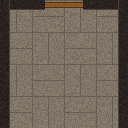
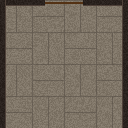
Fix boundary applied next to existing tiles; centered thin sample walls (0.4.3)

Changed region(s): [[0.0312, 0.0, 0.9688, 1.0]]

diff --git a/test/wfc.test.js b/test/wfc.test.js
@@ -54,6 +54,10 @@ function assertConsistent(result, cells, compat = sampleCompat) {
   assert.equal(result.assignments.length, cells.length);
 }
 const sampleSolve = opts => solve({ compatible: sampleMapping.compatible, ...opts });
+// One-sided wall convention used by some tests: a wall or door side may only face a floor side.
+const ONE_SIDED = { wall: ["floor"], door: ["floor"] };
+const oneSidedCompat = buildCompatibility(ONE_SIDED);
+const oneSidedSolve = opts => solve({ compatible: ONE_SIDED, ...opts });
 
 test("solve fills a rectangle with the sample collection and respects the boundary", () => {
   const polygon = [[0, 0], [1200, 0], [1200, 800], [0, 800]];
@@ -63,11 +67,20 @@ test("solve fills a rectangle with the sample collection and respects the bounda
   const result = sampleSolve({ cells, variants, boundaryTags: ["wall"], seed: "test" });
   assert.ok(result.success, "expected a solution");
   assertConsistent(result, cells);
-  const byKey = new Map(result.assignments.map(a => [`${a.cell.i},${a.cell.j}`, a.variant]));
   for (const a of result.assignments) {
     if (a.cell.i === 0) assert.deepEqual(a.variant.tags.n, ["wall"]);
     if (a.cell.j === 11) assert.deepEqual(a.variant.tags.e, ["wall"]);
-    // One-sided walls: a wall or door side always faces a floor side, never another wall.
+  }
+});
+
+test("solve with a one-sided compatibility table never puts two wall sides together", () => {
+  const cells = cellsInPolygon([[0, 0], [800, 0], [800, 500], [0, 500]], 100);
+  const variants = expandVariants(sampleTiles);
+  const result = oneSidedSolve({ cells, variants, boundaryTags: ["wall"], seed: "one-sided" });
+  assert.ok(result.success);
+  assertConsistent(result, cells, oneSidedCompat);
+  const byKey = new Map(result.assignments.map(a => [`${a.cell.i},${a.cell.j}`, a.variant]));
+  for (const a of result.assignments) {
     for (const side of SIDES) {
       const [di, dj] = DELTAS[side];
       const other = byKey.get(`${a.cell.i + di},${a.cell.j + dj}`);
@@ -107,14 +120,14 @@ test("solve reports failure when no tile fits", () => {
 test("failure diagnostics name the stage and the neighbour", () => {
   const variants = expandVariants(sampleTiles);
   // Contradictory unary constraints: must be exactly wall and compatible with wall (i.e. floor).
-  const unary = sampleSolve({ cells: [{ i: 0, j: 0 }], variants, constraints: [{ n: { require: ["wall"], compatibleWith: ["wall"] } }], seed: 1 });
+  const unary = oneSidedSolve({ cells: [{ i: 0, j: 0 }], variants, constraints: [{ n: { require: ["wall"], compatibleWith: ["wall"] } }], seed: 1 });
   assert.equal(unary.success, false);
   assert.equal(unary.failure.stage, "constraints");
-  const lines = describeCellConstraints({ n: { require: ["wall"], compatibleWith: ["wall"] } }, variants, sampleMapping.compatible);
+  const lines = describeCellConstraints({ n: { require: ["wall"], compatibleWith: ["wall"] } }, variants, ONE_SIDED);
   assert.ok(lines.some(l => l.startsWith("north must be exactly [wall]")));
   assert.ok(lines.some(l => l.startsWith("north must be compatible with [wall]")));
   // Propagation: cell 0 must draw a wall on its east, cell 1 must draw a wall on its west; one-sided walls forbid that.
-  const prop = sampleSolve({ cells: [{ i: 0, j: 0 }, { i: 0, j: 1 }], variants, constraints: [{ e: { require: ["wall"] } }, { w: { require: ["wall"] } }], seed: 1 });
+  const prop = oneSidedSolve({ cells: [{ i: 0, j: 0 }, { i: 0, j: 1 }], variants, constraints: [{ e: { require: ["wall"] } }, { w: { require: ["wall"] } }], seed: 1 });
   assert.equal(prop.success, false);
   assert.equal(prop.failure.stage, "propagation");
   assert.ok(prop.failure.from);
@@ -140,9 +153,9 @@ test("solve honours per-side require, compatibleWith and forbid constraints", ()
   }));
   constraints[1].e = { require: ["door"] };
   constraints[2].w = { compatibleWith: ["door"] };
-  const result = sampleSolve({ cells, variants, constraints, boundaryTags: ["wall"], seed: "doors" });
+  const result = oneSidedSolve({ cells, variants, constraints, boundaryTags: ["wall"], seed: "doors" });
   assert.ok(result.success);
-  assertConsistent(result, cells);
+  assertConsistent(result, cells, oneSidedCompat);
   assert.deepEqual(result.assignments[1].variant.tags.e, ["door"]);
   assert.deepEqual(result.assignments[2].variant.tags.w, ["floor"]);
   for (const a of result.assignments) {
@@ -229,12 +242,12 @@ test("compatibleWith constraint and shared tag requirement", () => {
   const cells = [{ i: 0, j: 0 }, { i: 0, j: 1 }];
   const variants = expandVariants(sampleTiles);
   // A wall tile sits north of cell 0: the new tile's north side must be compatible with "wall", i.e. floor.
-  const r = sampleSolve({ cells, variants, constraints: [{ n: { compatibleWith: ["wall"] } }, {}], seed: 2 });
+  const r = oneSidedSolve({ cells, variants, constraints: [{ n: { compatibleWith: ["wall"] } }, {}], seed: 2 });
   assert.ok(r.success);
   assert.deepEqual(r.assignments[0].variant.tags.n, ["floor"]);
   // Shared tags: one of the two sides of the shared edge must be exactly "door".
   for (const seed of [1, 2, 3]) {
-    const d = sampleSolve({ cells, variants, shared: [{ a: 0, sideA: "e", b: 1, sideB: "w", tags: ["door"] }], seed });
+    const d = oneSidedSolve({ cells, variants, shared: [{ a: 0, sideA: "e", b: 1, sideB: "w", tags: ["door"] }], seed });
     assert.ok(d.success);
     const [A, B] = d.assignments.map(x => x.variant);
     assert.ok(A.tags.e[0] === "door" || B.tags.w[0] === "door");
@@ -263,4 +276,20 @@ test("requireAny and shared any accept a tag or a door feature", () => {
   const none = sampleSolve({ cells: [{ i: 0, j: 0 }], variants, constraints: [{ n: { requireAny: ["portcullis"] } }], seed: 1 });
   assert.equal(none.success, false);
   assert.ok(describeCellConstraints({ n: { requireAny: ["portcullis"] } }, variants, sampleMapping.compatible)[0].includes("(0 variants)"));
+});
+
+test("boundary tags do not apply to sides that face an existing tile", () => {
+  const variants = expandVariants(sampleTiles);
+  // The west neighbour exists and shows a wall towards us: our west side must be compatible with
+  // it, and the boundary rule must stay out of the way.
+  const r = sampleSolve({ cells: [{ i: 0, j: 0 }], variants, boundaryTags: ["wall"], constraints: [{ w: { compatibleWith: ["wall"] } }], seed: 1 });
+  assert.ok(r.success, "boundary must not also demand a wall on the west side");
+  const tags = r.assignments[0].variant.tags;
+  assert.ok(tagsMatch(tags.w, ["wall"], sampleCompat));
+  assert.deepEqual(tags.n, ["wall"]);
+  assert.deepEqual(tags.e, ["wall"]);
+  assert.deepEqual(tags.s, ["wall"]);
+  const lines = describeCellConstraints({ w: { compatibleWith: ["wall"] } }, variants, sampleMapping.compatible, { outside: ["n", "w"], boundaryTags: ["wall"] });
+  assert.ok(lines.some(l => l.startsWith("north must be exactly [wall]")));
+  assert.ok(!lines.some(l => l.startsWith("west must be exactly")));
 });

diff --git a/scripts/lib/wfc.js b/scripts/lib/wfc.js
@@ -309,7 +309,9 @@ export function solve({ cells, variants, boundaryTags = null, compatible = null,
   const PLACES = [...SIDES, CENTER];
   const allowedMasks = cells.map((cell, k) => PLACES.map((place, s) => {
     const c = constraints?.[k]?.[place];
-    const outside = place !== CENTER && neighbors[k][s] === -1;
+    // Boundary tags apply to sides facing the open outside: not to sides that face an existing
+    // tile (compatibleWith) and not when a marker already dictates the side (require).
+    const outside = place !== CENTER && neighbors[k][s] === -1 && !c?.compatibleWith && !c?.require;
     const require = c?.require ? normalizeTags(c.require) : (outside && boundary.length ? boundary : null);
     const compatibleWith = c?.compatibleWith ? normalizeTags(c.compatibleWith) : null;
     const forbid = c?.forbid ? normalizeTags(c.forbid) : null;
@@ -378,7 +380,8 @@ export function describeCellConstraints(cellConstraints, variants, compatible = 
   for (const place of [...SIDES, CENTER]) {
     const c = cellConstraints?.[place] ?? {};
     const name = { n: "north", e: "east", s: "south", w: "west", c: "center" }[place];
-    const require = c.require ? normalizeTags(c.require) : (outside.includes(place) && boundary.length ? boundary : null);
+    const open = outside.includes(place) && !c.compatibleWith && !c.require;
+    const require = c.require ? normalizeTags(c.require) : (open && boundary.length ? boundary : null);
     if (require) lines.push(`${name} must be exactly [${require}] (${count(v => tagsMatch(v.tags[place], require))} variants)`);
     if (c.compatibleWith) {
       const cw = normalizeTags(c.compatibleWith);

diff --git a/README.md b/README.md
@@ -116,9 +116,9 @@ Open **Tile collections (WFC)** from the Tiles controls or from the module setti
 - Tags are compared as sets, so order does not matter: `floor,wall` equals `wall,floor`.
 - By default the sets on the shared side must be **identical**. A side tagged `floor` does not
   match a side tagged `floor,rubble`.
-- A collection can declare **compatible tags** so that differing tags may face each other. The
-  sample uses `wall: floor` and `door: floor`: a wall or door side may only face a floor side. A
-  tag listed on the left stops matching itself unless it lists itself, so two wall sides never meet.
+- A collection can declare **compatible tags** so that differing tags may face each other, for
+  example `wall: floor` for art where only one tile draws the wall. A tag listed on the left stops
+  matching itself unless it lists itself.
 - An empty tag set only matches another empty tag set.
 - The wildcard `*` matches anything.
 - When a tile allows rotation, its tags and walls rotate with it (clockwise: north becomes east).
@@ -127,14 +127,15 @@ Open **Tile collections (WFC)** from the Tiles controls or from the module setti
 
 Two conventions work:
 
-1. **One-sided** (the sample): the tile whose side is tagged `wall` draws the whole wall band and
-   places the wall segment on its edge. The neighbour shows plain floor up to the edge and is
-   tagged `floor` there. The compatibility table `wall: floor` enforces that. Walls are never
-   doubled and a door tagged `door` (compatible with `floor`) always opens onto floor.
-2. **Two-sided**: both tiles draw half a wall on the shared edge and both sides are tagged `wall`
-   with no compatibility table. Identical wall segments are deduplicated before placing, so the
-   Foundry wall is still single, but the artwork is twice as thick and a door must be paired with
-   a matching door tile on the other side.
+1. **Centered walls** (the sample): the wall sits on the grid line and both tiles draw their half of
+   the band, so both sides are tagged `wall` and need no compatibility table. A straight wall is
+   always straight because every half is in the same place relative to the line. Keep the halves
+   thin. Doors work the same way: both tiles draw half of the door and both sides are tagged `door`.
+   Identical wall segments are deduplicated, so the Foundry wall is still single.
+2. **One-sided walls**: the tile tagged `wall` draws the whole band inside its own area and the
+   neighbour shows floor up to the edge, enforced with the compatibility table `wall: floor`. This
+   suits art with thick walls, but along a straight line the band may switch sides from cell to
+   cell unless your side tags also encode where the band is.
 
 ### Doors
 
@@ -144,11 +145,10 @@ A door is any wall segment of type *Door* or *Secret door* in the tile editor. T
 - A door segment lying on a tile edge is a door feature of that side.
 - Any other door segment is a door feature of the tile center.
 
-With one-sided walls a door tile draws the complete door on its edge, tags that side `door`, and
-the compatibility table (`door: floor`) makes it face plain floor, so a door never leads into a
-wall. If you prefer two-sided art, tag both halves `door` without a compatibility entry so door
-tiles pair up. Should a plain wall segment ever share a line with a door, the wall is cut away
-around the door span so it stays passable.
+With centered walls both tiles draw half of the door and tag that side `door`, so door tiles pair
+up and a door never leads into a wall. With one-sided walls a door tile draws the complete door and
+the compatibility table (`door: floor`) makes it face plain floor. Should a plain wall segment ever
+share a line with a door, the wall is cut away around the door span so it stays passable.
 
 A door in the middle of a tile (`door-mid.png`) is a center feature and can be demanded with a cell
 marker.
@@ -188,7 +188,7 @@ You can edit the file by hand; the collection editor reloads it from disk.
 ## Sample collection
 
 `collections/sample-dungeon` ships with ten generated stone tiles using the tags `floor`, `wall`
-and `door` with one-sided walls, including a door across the middle of a corridor. It is registered by default and is a good template for your own art. Regenerate it with
+and `door` with thin centered walls, including a door across the middle of a corridor. It is registered by default and is a good template for your own art. Regenerate it with
 `npm run sample-tiles`.
 
 ## API

diff --git a/CHANGELOG.md b/CHANGELOG.md
@@ -1,5 +1,13 @@
 # Changelog
 
+## 0.4.3
+
+- Fixed a contradiction when regenerating next to existing tiles: the boundary tag was also applied
+  to sides that face an existing tile, which with one-sided walls could never be satisfied.
+- Sample collection uses thin walls centered on the grid line again, drawn half by each tile, so
+  straight walls stay straight instead of switching sides from cell to cell. Doors are drawn half
+  by each tile as well. The compatibility table feature stays available for one-sided art.
+
 ## 0.4.2
 
 - Edge markers have separate side tags and door features again. The features field only accepts
